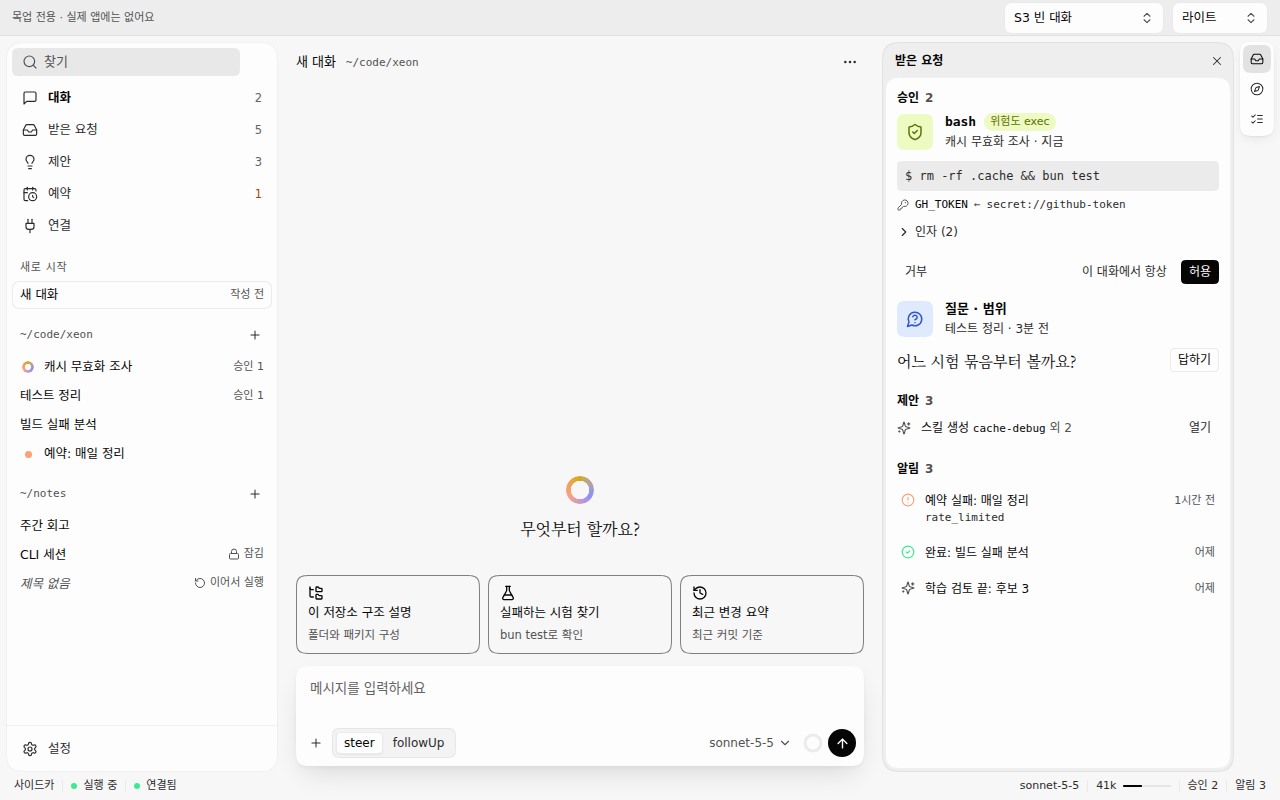
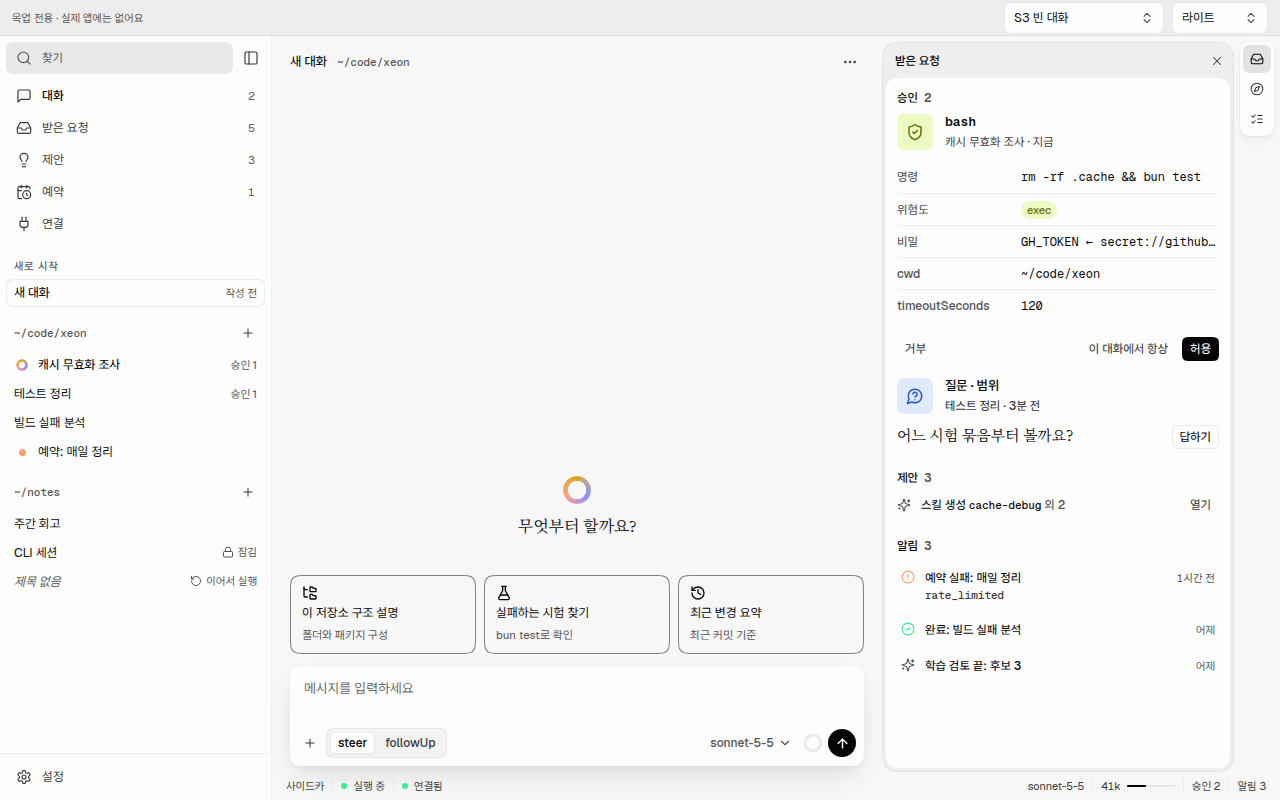
xeon(desktop): P-02 시안 3차 — 칩 여백, 검은 화면, 왼쪽 패널, 승인 상세 목록

diff --git a/xeon/apps/desktop/mockups/p02-opus/tool-approval.tsx b/xeon/apps/desktop/mockups/p02-opus/tool-approval.tsx
@@ -1,10 +1,8 @@
 // 도구 승인 카드: caustic AgentRequest(kind permission)에 명령 전문, 비밀 핸들, 위험도, 인자를 담는다.
 // 트랜스크립트 끝과 끝 영역에 같은 부품으로 보인다. 카드에 초점이 있으면 Y(허용), ⇧Y(이 대화에서 항상), N(거부).
-import { AgentRequest, Badge, MessageCode } from "@caustic/react";
+import { AgentRequest, Badge, ListDescription, ListDescriptionRow } from "@caustic/react";
 import type { KeyboardEvent } from "react";
 import type { ToolApproval } from "./fixtures";
-import { KeyRound } from "./icons";
-import { Disclosure } from "./parts/disclosure";
 import type { Decision } from "./store";
 
 export interface ToolApprovalCardProps {
@@ -68,15 +66,10 @@ export function ToolApprovalCard({
       <AgentRequest
         kind="permission"
         title={
-          <span className="flex items-center gap-2">
-            <span>
-              <span className="sr-only">도구 승인: </span>
-              <span className="font-mono">{approval.tool}</span>
-            </span>
-            <Badge size="xs" tone="warning">
-              위험도 {approval.risk}
-            </Badge>
-          </span>
+          <>
+            <span className="sr-only">도구 승인: </span>
+            <span className="font-mono">{approval.tool}</span>
+          </>
         }
         subtitle={subtitle}
         tabIndex={-1}
@@ -97,37 +90,35 @@ export function ToolApprovalCard({
         ]}
         onAction={(id) => onDecide(ACTION_TO_DECISION[id as keyof typeof ACTION_TO_DECISION])}
       >
-        {/* 명령 전문과 비밀 핸들은 이름표 없이 간격으로만 묶는다($와 열쇠 표시가 무엇인지 말한다). */}
-        <div className="grid gap-1.5">
-          <MessageCode className="block whitespace-pre-wrap break-all px-2 py-1.5">
-            $ {approval.command}
-          </MessageCode>
-          <ul aria-label="이 호출이 쓸 비밀" className="m-0 grid list-none gap-1 p-0">
-            {approval.secrets.map((s) => (
-              <li
-                key={s.env}
-                className="flex min-w-0 items-center gap-1.5 font-mono text-mono-sm text-text-primary"
-              >
-                <KeyRound aria-hidden className="size-icon-xs shrink-0 text-text-tertiary" />
-                <span>{s.env}</span>
-                <span aria-label="에서 받음" className="text-text-tertiary">
-                  ←
-                </span>
-                <span className="min-w-0 truncate text-text-secondary">{s.ref}</span>
-              </li>
-            ))}
-          </ul>
-        </div>
-        <Disclosure summary={`인자 (${extraArgs.length})`}>
-          <dl className="m-0 grid grid-cols-[auto_1fr] gap-x-3 gap-y-0.5 font-mono text-mono-sm">
-            {extraArgs.map(([k, v]) => (
-              <div key={k} className="contents">
-                <dt className="text-text-tertiary">{k}</dt>
-                <dd className="m-0 min-w-0 truncate text-text-primary">{String(v)}</dd>
-              </div>
-            ))}
-          </dl>
-        </Disclosure>
+        {/* 승인에 필요한 사실은 한 목록(caustic ListDescription)으로: 명령 전문, 위험도, 비밀 핸들, 인자. 이름표는 목록이 맡는다(DP-12). */}
+        <ListDescription
+          variant="ghost"
+          size="xs"
+          aria-label="승인 상세"
+          // 카드가 이미 좌우 여백을 준다: 행의 좌우 여백은 0(DP-07). 이름표 열은 가장 긴 이름표(timeoutSeconds) 폭만큼.
+          className="rounded-none [--cs-size-list-term:7rem] [&_[data-slot=list-description-row]]:px-0"
+        >
+          <ListDescriptionRow term="명령" mono>
+            <span className="whitespace-pre-wrap break-all">{approval.command}</span>
+          </ListDescriptionRow>
+          <ListDescriptionRow term="위험도">
+            <Badge size="xs" tone="warning">
+              {approval.risk}
+            </Badge>
+          </ListDescriptionRow>
+          {approval.secrets.map((sec) => (
+            <ListDescriptionRow key={sec.env} term="비밀" mono>
+              <span className="break-all">
+                {sec.env} ← {sec.ref}
+              </span>
+            </ListDescriptionRow>
+          ))}
+          {extraArgs.map(([k, v]) => (
+            <ListDescriptionRow key={k} term={k} mono>
+              {String(v)}
+            </ListDescriptionRow>
+          ))}
+        </ListDescription>
       </AgentRequest>
     </fieldset>
   );

diff --git a/xeon/apps/desktop/mockups/p02-opus/start-panel.tsx b/xeon/apps/desktop/mockups/p02-opus/start-panel.tsx
@@ -1,6 +1,7 @@
 // 시작 영역(표면): 찾기 + 주 내비(다섯 항목) + 작업 폴더별 대화 목록 + 맨 아래 설정. 제목 띠가 없어서 찾기와 접기가 여기 머리에 온다.
 import {
-  Button,
+  IconButton,
+  Input,
   ListNavigation,
   ListNavigationGroup,
   ListNavigationItem,
@@ -15,6 +16,7 @@ import {
   MessageSquare,
   Plug,
   RotateCcw,
+  PanelLeft,
   Search,
   Settings,
 } from "./icons";
@@ -64,23 +66,41 @@ export function StartPanel({ floating }: { floating: boolean }) {
       collapsed={!m.startOpen}
       onCollapsedChange={(c) => m.setStartOpen(!c)}
       size="sm"
-      collapseLabel="사이드바 닫기"
-      // 붙박이면 헤어라인 한 줄, 좁은 폭에서 대화 위로 뜨면 그림자 하나(깊이 신호는 하나만).
-      // 머리·바닥 띠의 좌우 여백은 한 단계(1.5)만 두고, 안의 행이 자기 여백을 가진다(DP-07).
+      // 붙박이: 창 왼쪽 끝에서 위아래 끝까지 닿는 docked 면(variant outline: 모서리 없음, 오른쪽 헤어라인 하나, DP-13).
+      // 좁은 폭에서 대화 위로 뜰 때만 floating 면(solid)과 그림자 하나.
+      variant={floating ? "solid" : "outline"}
       shadow={floating ? "3" : "none"}
-      className={`${floating ? "" : "shadow-[inset_0_0_0_1px_var(--cs-color-border-subtle)] "}[&>[data-slot=side-panel-footer]]:px-1.5 [&>[data-slot=side-panel-header]]:px-1.5`}
+      className="[&>[data-slot=side-panel-footer]]:px-1.5 [&>[data-slot=side-panel-header]]:px-1.5"
+      // 찾기 칸이 머리 폭을 다 쓰고, 접기 버튼은 늘 보이는 자리에 둔다(caustic의 hover 때만 보이는 접기 버튼은 빈 자리를 남겨서 쓰지 않는다).
       header={
-        <Button
-          size="sm"
-          tone="neutral"
-          variant="soft"
-          iconStart={<Search />}
-          onClick={() => m.setPaletteOpen(true)}
-          aria-label="명령 또는 대화 찾기"
-          className="w-full justify-start font-normal text-text-tertiary"
-        >
-          찾기
-        </Button>
+        <div className="flex min-w-0 items-center gap-1">
+          <Input
+            size="xs"
+            variant="soft"
+            readOnly
+            prefix={<Search />}
+            placeholder="찾기"
+            aria-label="명령 또는 대화 찾기"
+            aria-haspopup="dialog"
+            onClick={() => m.setPaletteOpen(true)}
+            onKeyDown={(e) => {
+              if (e.key === "Enter" || e.key === " ") {
+                e.preventDefault();
+                m.setPaletteOpen(true);
+              }
+            }}
+            containerClassName="min-w-0 flex-1"
+            className="cursor-pointer"
+          />
+          <IconButton
+            size="sm"
+            variant="ghost"
+            label="사이드바 닫기"
+            onClick={() => m.setStartOpen(false)}
+          >
+            <PanelLeft />
+          </IconButton>
+        </div>
       }
       footer={
         <ListNavigation aria-label="설정" kind="navigation" size="sm" as="div" className="w-full">

diff --git a/xeon/apps/desktop/mockups/p02-opus/app.tsx b/xeon/apps/desktop/mockups/p02-opus/app.tsx
@@ -164,32 +164,34 @@ export function App() {
       >
         본문으로
       </a>
-      {/* 창 안쪽 여백은 이 한 곳(1.5)에서만 준다. 패널과 대화 영역은 자기 안쪽만 책임진다(DP-07). */}
-      <div className="relative flex min-h-0 flex-1 gap-1.5 p-1.5 pb-0">
+      {/* 왼쪽 패널은 창의 위아래 끝까지 붙는다(DP-13). 그 오른쪽 열에만 창 여백(1.5)을 한 번 주고, 상태 표시줄은 그 열 아래. */}
+      <div className="relative flex min-h-0 flex-1">
         <div
           className={
             compact
               ? m.startOpen
-                ? "absolute inset-y-1.5 start-1.5 z-30 flex w-[min(20rem,calc(100%-3rem))] animate-enter-panel enter-from-start"
+                ? "absolute inset-y-0 start-0 z-30 flex w-[min(20rem,calc(100%-3rem))] animate-enter-panel enter-from-start"
                 : "absolute"
-              : m.startOpen
-                ? "flex"
-                : "-me-1.5 flex"
+              : "flex"
           }
         >
           <StartPanel floating={compact} />
         </div>
-        <main
-          id={STAGE_ID}
-          tabIndex={-1}
-          aria-label="대화"
-          className="flex min-w-0 flex-1 flex-col outline-none"
-        >
-          <StageContent />
-        </main>
-        <RightPanel />
+        <div className="flex min-w-0 flex-1 flex-col">
+          <div className="relative flex min-h-0 flex-1 gap-1.5 p-1.5 pb-0">
+            <main
+              id={STAGE_ID}
+              tabIndex={-1}
+              aria-label="대화"
+              className="flex min-w-0 flex-1 flex-col outline-none"
+            >
+              <StageContent />
+            </main>
+            <RightPanel />
+          </div>
+          <StatusBar start={cells.start} end={cells.end} />
+        </div>
       </div>
-      <StatusBar start={cells.start} end={cells.end} />
       <Palette />
       <LockedDialog />
     </>

diff --git a/xeon/apps/desktop/mockups/p02-opus/fonts.ts b/xeon/apps/desktop/mockups/p02-opus/fonts.ts
@@ -1,0 +1,28 @@
+// caustic 글꼴(@caustic/tokens/fonts.css)을 렌더를 막지 않게 싣는다.
+// 원인(3차 검은 화면): fonts.css 첫 줄이 원격 `@import url(fonts.googleapis.com…)`이다. 번들 CSS 맨 앞에 그대로 남아,
+// 원격 호스트가 느리거나 막히면(오프라인, 방화벽, Tauri) 스타일시트 전체가 끝나지 않는다. 모듈 스크립트는 앞선
+// 스타일시트를 기다리므로 React가 아예 마운트되지 않고 빈 창(다크 창에서는 검은 화면)만 남는다.
+// 그래서 fonts.css를 문자열(?inline)로 받아 원격 @import 줄만 떼어 비동기 <link>로 붙이고, 나머지(SUIT @font-face,
+// Vite가 woff2를 내보냄)는 <style>로 바로 넣는다. 원격 글꼴이 안 와도 화면은 뜨고 대체 글꼴로 그린다.
+import fontsCss from "@caustic/tokens/fonts.css?inline";
+
+const IMPORT = /@import\s+url\(\s*["']?([^"')]+)["']?\s*\)\s*;?|@import\s+["']([^"']+)["']\s*;?/g;
+
+export function loadCausticFonts(): void {
+  const remote: string[] = [];
+  const local = fontsCss.replace(IMPORT, (_m: string, a?: string, b?: string) => {
+    const href = a ?? b;
+    if (href !== undefined) remote.push(href);
+    return "";
+  });
+  const style = document.createElement("style");
+  style.dataset["source"] = "caustic-fonts";
+  style.textContent = local;
+  document.head.prepend(style);
+  for (const href of remote) {
+    const link = document.createElement("link");
+    link.rel = "stylesheet";
+    link.href = href;
+    document.head.append(link); // 스크립트가 넣은 <link>는 렌더를 막지 않는다
+  }
+}

diff --git a/xeon/apps/desktop/mockups/p02-opus/main.tsx b/xeon/apps/desktop/mockups/p02-opus/main.tsx
@@ -1,4 +1,6 @@
-import "@caustic/tokens/fonts.css";
+// 글꼴은 맨 먼저: caustic fonts.css를 렌더를 막지 않게 싣는다(fonts.ts 머리 주석).
+import { loadCausticFonts } from "./fonts";
+loadCausticFonts();
 // P-02 대화 셸 목업 진입점. ?state=S1..S7 로 화면 상태, ?theme=light|dark 로 테마를 고른다(기본 S1, 라이트).
 import "./mockup.css";
 import { StrictMode, useEffect, useState } from "react";

diff --git a/xeon/apps/desktop/mockups/p02-opus/env.d.ts b/xeon/apps/desktop/mockups/p02-opus/env.d.ts
@@ -1,1 +1,5 @@
 declare module "*.css";
+declare module "*.css?inline" {
+  const css: string;
+  export default css;
+}

diff --git a/xeon/apps/desktop/mockups/p02-opus/NOTES.md b/xeon/apps/desktop/mockups/p02-opus/NOTES.md
@@ -18,12 +18,13 @@
 | `palette.tsx`, `locked-dialog.tsx` | S7 팔레트, S5 O-01 잠긴 대화 |
 | `fixtures.ts` | 스펙 §8.2 고정 데이터 그대로(타입만 덧붙임) |
 | `icons.ts` | lucide-react 진입점(아래 "환경" 참고) |
+| `fonts.ts` | caustic `fonts.css`를 렌더를 막지 않게 싣기(원격 `@import`를 비동기 `<link>`로, DP-15) |
 | `parts/` | caustic에 없어 직접 만든 부품(아래 표) |
 | `shots/S1.png`~`S7.png` | 1280px 라이트 스크린숏 |
 
 ## 쓴 caustic 부품
 
-`SidePanel`(왼쪽, inspector 폭 끌기, size sm), `FloatingBar`/`FloatingBarItem`(vertical, 새 `badge` prop), `Card`(variant well)/`CardPanel`,
+`SidePanel`(왼쪽, docked outline, inspector 폭 끌기, size sm), `ListDescription`/`ListDescriptionRow`, `Input`, `FloatingBar`/`FloatingBarItem`(vertical, 새 `badge` prop), `Card`(variant well)/`CardPanel`,
 `ListNavigation`/`ListNavigationGroup`/`ListNavigationItem`(navigation, sessions, size sm),
 `IconButton`, `Button`, `Badge`, `Menu`/`MenuItem`/`MenuSeparator`,
 `EmptyState`(dashed, agent), `ScrollArea`, `Message`, `MessageCode`, `Thinking`, `ToolCall`, `AgentRequest`(permission, 기록 allowed/denied/answered),
@@ -39,7 +40,6 @@
 | `notice-list.tsx` | C-02 알림함(종류, 안 읽음, 시각) |
 | `tool-row.tsx` | `ToolCall`에 접기·펼치기가 없음(실패한 bash는 처음부터 펼침), C-15 도구 출력 |
 | `question-card.tsx` | `AgentRequest`에 질문 kind가 없음(permission은 방패 고정, proposal은 영어 "Proposal ·" 머리). permission 카드 치수를 따름 |
-| `disclosure.tsx` | 카드 안 작은 접기 줄("인자 (2)"). `Accordion`은 48px 머리라 큼 |
 | `rich-text.tsx` | C-06 Markdown: 백틱 인라인 코드만 `<code>` |
 | `streaming-text.tsx` | `Message streaming`에 작성 중 커서가 없음. 깜빡이는 커서 하나 |
 | `observe-band.tsx` | `Composer`에 "관찰 중" 잠금 상태가 없음 |
@@ -54,6 +54,13 @@
 - 여백은 창 바깥 한 곳(6px)과 각 부품 안쪽 한 곳에서만.
 - 오른쪽: 접으면 `FloatingBar` 세로 막대(받은 요청 수 배지), 펼치면 누른 아이콘 모서리에서 커지는 `Card variant="well"` 안에 `CardPanel`. 넓은 폭은 대화 영역을 밀고(헤어라인), 1100px 이하는 대화 위에 떠 그림자 하나.
 - well 안의 승인·질문 카드는 상자 없이(`flat`) 간격으로만 묶습니다. 대화 안의 같은 카드는 헤어라인 표면입니다.
+
+## 3차(DP-12~16)
+
+- 검은 화면: `fonts.css` 첫 줄의 원격 Google Fonts `@import`가 번들 CSS 맨 앞에 남아, 호스트가 막히면 스타일시트와 모듈 스크립트가 함께 멈춰 React가 마운트되지 않았습니다(호스트를 막은 헤드리스 Chrome에서 재현: `styleSheets 0`, `#root` 비어 있음). `fonts.ts`로 고쳐 막힌 상태에서도 그려지고 SUIT가 실립니다.
+- 승인 상세는 `ListDescription` 한 목록(명령, 위험도, 비밀, 인자).
+- 왼쪽 패널은 위아래 끝까지 붙는 docked 면, 머리는 `Input` 찾기 + 늘 보이는 접기 버튼.
+- 상태 칩은 caustic `ToolCall` 쪽에서 앞 아이콘 여백을 2px로 맞춤.
 
 ## 강조·깊이 규칙(2차 수정)
 

diff --git a/docs/xeon/L4/desktop-ux/spec.md b/docs/xeon/L4/desktop-ux/spec.md
@@ -2095,3 +2095,11 @@ DP-11을 caustic 토큰으로 정했습니다(caustic `27fe658`, `bbb094a`, `FOU
 - DP-11b 한글 글꼴: Geist 다음 SUIT Variable입니다 [결정: 2026-10-29 사용자]. caustic이 SUIT v2.0.5 가변 woff2(SIL OFL 1.1, 625KB, 굵기 100–900)를 직접 담고, 앱은 `@caustic/tokens/fonts.css`를 다른 스타일보다 먼저 가져옵니다. 한글·CJK 문장부호에만 쓰이고(unicode-range) 영문과 숫자는 Geist입니다. Google의 Noto Sans KR은 더 받지 않습니다. 굵기 400·500·600·700이 한글에서도 모두 다르게 보입니다.
 - DP-11c 굵기 단계: 본문 400, 강조·라벨 500, 제목 600. SUIT 400·500은 Geist와 같은 무게로 보입니다. SUIT 600은 큰 제목에서 Geist 600보다 가벼워, `lang="ko"` 아래 18px 이상 600 역할(display, title-1·2 등)은 700으로 그립니다.
 - DP-11d 글자색 단계: primary·secondary·tertiary·placeholder = neutral 11·10·9·8. surface.base 위 대비가 라이트 20 : 11.6 : 7.7 : 5.9, 다크 16.7 : 8.8 : 6.5 : 5.2입니다(이전 라이트 secondary 13.9, 다크 9.9 : 7.0 : 5.7). 모든 단계가 WCAG 4.5:1 이상입니다.
+
+### 13.3 3차 (2026-10-30)
+
+- DP-12 승인 상세는 caustic `ListDescription`(variant ghost, size xs) 한 목록으로 보입니다. 명령 전문, 위험도(`Badge tone="warning"`), 비밀 핸들(`ENV ← secret://…`), 인자를 행마다 이름표·값으로 둡니다. 따로 흩어진 줄, 이름표 문장, 접기를 두지 않습니다. 카드가 좌우 여백을 주므로 행의 좌우 여백은 0입니다(DP-07).
+- DP-13 왼쪽 패널은 창의 위아래 끝까지 붙는 docked 면입니다(`SidePanel variant="outline"`: 모서리 없음, 오른쪽 헤어라인 하나, 그림자 없음). 창 여백은 그 오른쪽 열에만 줍니다. 좁은 폭에서 대화 위로 뜰 때만 floating 면(solid)과 그림자 하나입니다.
+- DP-14 왼쪽 패널 머리의 찾기는 필드 모양 그대로 `Input`(size xs, variant soft, 검색 prefix, 읽기 전용, 누르거나 Enter면 팔레트)이 머리 폭을 다 쓰고, 접기 `IconButton`은 늘 보이는 자리에 둡니다. 머리에 hover 때만 보이는 버튼으로 빈 자리를 남기지 않습니다.
+- DP-15 원격 글꼴은 렌더를 막지 않습니다. 스타일시트 안의 원격 `@import`(Google Fonts 등)는 호스트가 느리거나 막히면 스타일시트와 그 뒤 모듈 스크립트를 함께 멈춰 빈(다크에서는 검은) 창을 만듭니다. 원격 글꼴은 스크립트가 넣는 `<link>`나 자체 호스팅 `@font-face`로만 싣습니다. 시안은 `fonts.ts`가 `fonts.css`의 원격 `@import`를 떼어 비동기로 붙입니다. caustic `fonts.css`에서 원격 `@import`를 빼는 것을 권합니다.
+- DP-16 앞 아이콘이 있는 알약(상태 칩, 18px)은 시작 쪽 여백을 아이콘 자신의 위아래 여백과 같게((18−14)/2 = 2px) 두고 끝 쪽만 6px입니다. 아이콘이 알약의 둥근 끝에 앉아 좌우가 위아래보다 넓어 보이지 않습니다(caustic `ToolCall` 상태 칩에 반영).
